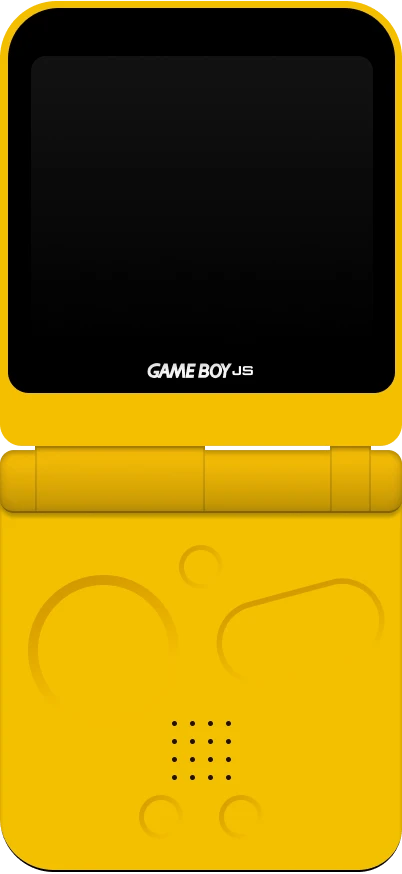
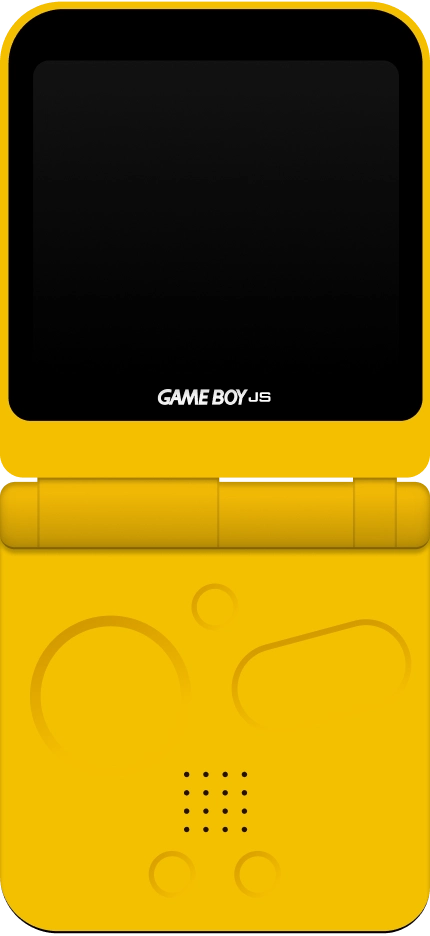
Increase size of shell image

diff --git a/src/styles/ui/GameBoy.css b/src/styles/ui/GameBoy.css
@@ -3,8 +3,8 @@
   display: flex;
   justify-content: center;
   width: fit-content;
-  max-width: 402px;
-  max-height: 874px;
+  max-width: 430px;
+  max-height: 934.88px;
 }
 
 .gameboy__shell {
